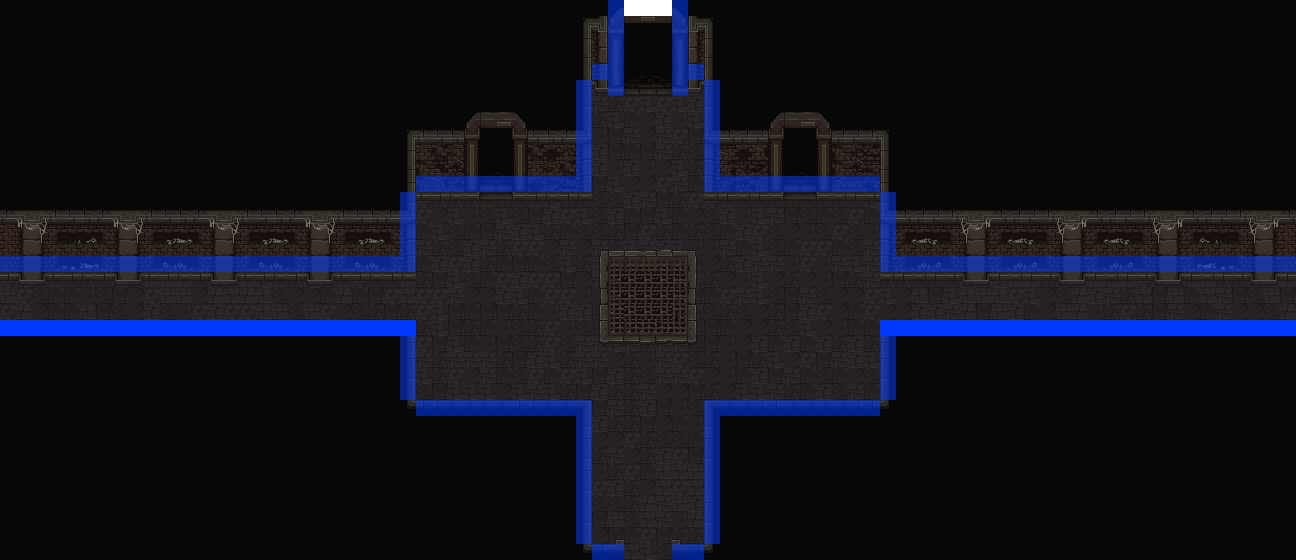
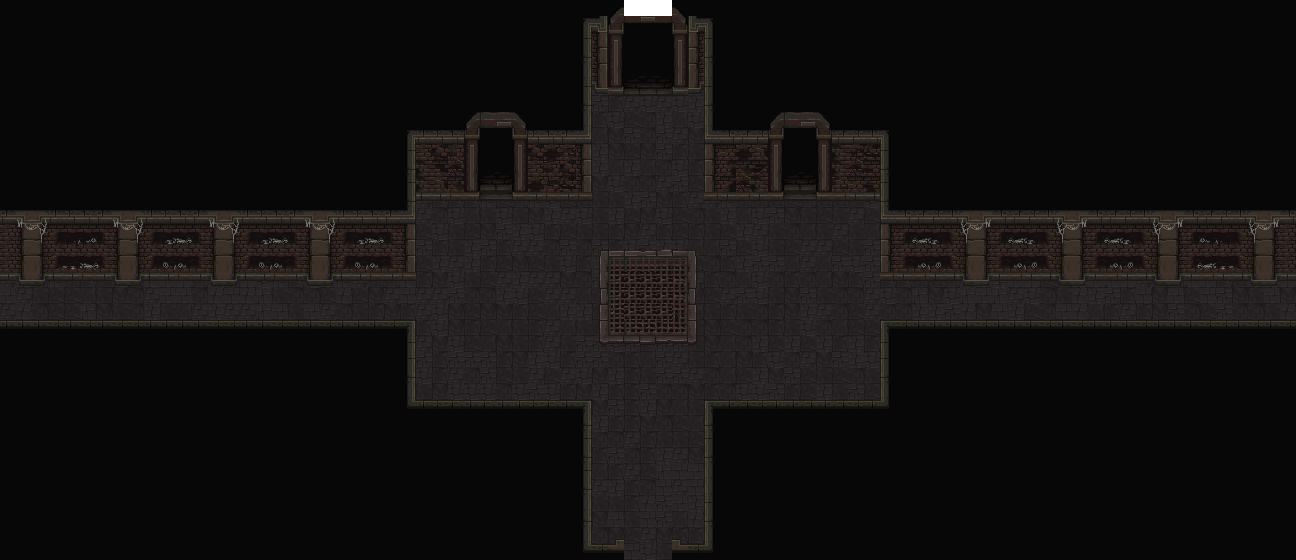
BossRoom Fixed + Trigger

Changed region(s): [[0.0, 0.5464, 1.0, 1.0], [0.0, 0.0, 1.0, 0.4857]]

diff --git a/Source/RoomManager.cpp b/Source/RoomManager.cpp
@@ -19,7 +19,7 @@ void RoomManager::Start()
 
 	mapLoader = new MapLoader();
 
-	GenerateMap(10);
+	GenerateMap(1);
 
 	CreateDoors();
 
@@ -194,7 +194,12 @@ void RoomManager::GenerateMap(short RoomNumber)
 	CreateRoom(bossRoomPos, -1);
 
 	//Exit trigger in boss room
-	exitTrigger = new Trigger(iPoint(4 * MAX_ROOM_TILES_COLUMNS, 4 * MAX_ROOM_TILES_ROWS) * TILE_SIZE, 200);
+	iPoint triggerPos = bossRoomPos;
+	triggerPos.x *= MAX_ROOM_TILES_COLUMNS;
+	triggerPos.y *= MAX_ROOM_TILES_ROWS;
+	triggerPos += iPoint(31, 11);
+	triggerPos *= TILE_SIZE;
+	exitTrigger = new Trigger(triggerPos, 2 * TILE_SIZE);
 	b2Filter filter;
 	filter.categoryBits = app->physics->TRIGGER_LAYER;
 	filter.maskBits = app->physics->PLAYER_LAYER;

diff --git a/Source/MapLoader.cpp b/Source/MapLoader.cpp
@@ -141,6 +141,9 @@ void MapLoader::CreateEnemies(Room* r)
 				}
 				
 			}
+			else if (gid == 2561) {
+				//spawn boss
+			}
 
 			tile = tile.next_sibling();
 		}
